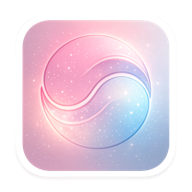
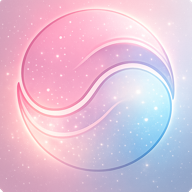
Icône plein cadre (full-bleed) pour Android
Recadre l'icône source pour supprimer la carte arrondie + bordure blanche
incrustées : le dégradé pastel remplit désormais tout le carré, taegeuk
centré. Android (icône adaptative) et le splash n'affichent plus de bords
blancs/noirs. SW v5 pour rafraîchir les icônes en cache.

diff --git a/sw.js b/sw.js
@@ -1,4 +1,4 @@
-const CACHE='sejong-v4';
+const CACHE='sejong-v5';
 const ASSETS=['./','./index.html','./manifest.json','./icon-192.png','./icon-512.png'];
 self.addEventListener('install',e=>{self.skipWaiting();e.waitUntil(caches.open(CACHE).then(c=>c.addAll(ASSETS)).catch(()=>{}));});
 self.addEventListener('activate',e=>{e.waitUntil(caches.keys().then(ks=>Promise.all(ks.filter(k=>k!==CACHE).map(k=>caches.delete(k)))));self.clients.claim();});